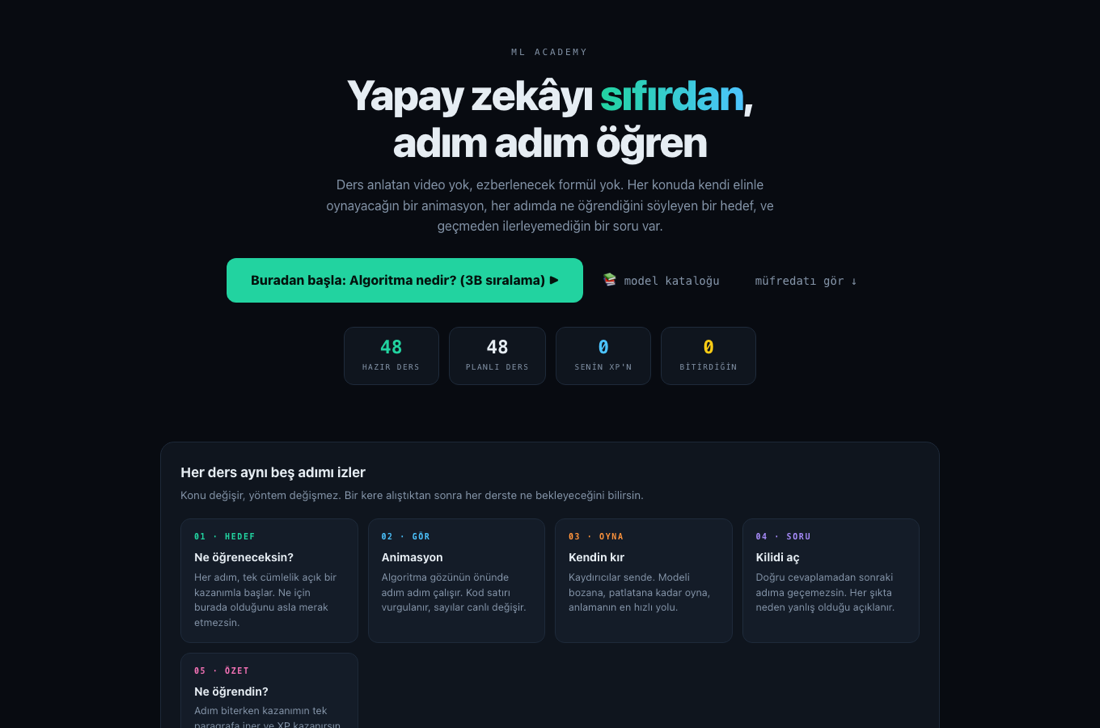
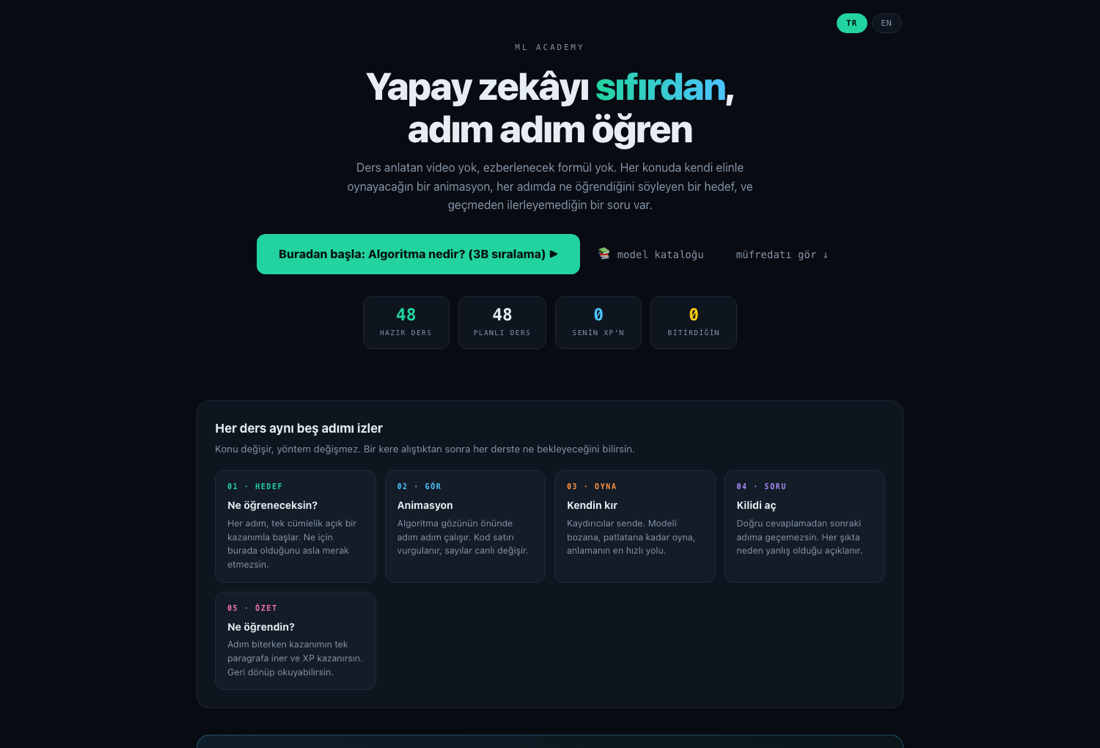
English interface on lesson pages, English screenshots in the English README
The English README showed Turkish screenshots, which made the English page
look like a translation that was never done. Now each README shows the
language it is written in.

Lesson pages got the same TR/EN switch as the home page. Navigation, step
counters, XP labels, player buttons, the code lab, quiz headings, gate
messages, the takeaway box and the sources list all follow the selected
language. The choice is shared with the home page through localStorage.

In English mode each step carries a one line notice that the interface is
English while the lesson text is still Turkish, so the mixed page is never a
surprise.

Also fixed a real layout bug found while taking the screenshots: the CSS rule
for the task label matched every <b> inside the task text, so bold words were
rendered as uppercase mono labels on their own line. 27 steps were affected.

diff --git a/lesson.html b/lesson.html
@@ -68,8 +68,9 @@
   .goal p{margin:0;font-size:15px;font-weight:600}
   .do{background:var(--panel2);border-left:3px solid var(--blue);border-radius:0 10px 10px 0;
       padding:11px 15px;margin:14px 0;font-size:13.5px}
-  .do b{color:var(--blue);font-family:var(--mono);font-size:9.5px;letter-spacing:.16em;
+  .do b.lbl{color:var(--blue);font-family:var(--mono);font-size:9.5px;letter-spacing:.16em;
         text-transform:uppercase;display:block;margin-bottom:3px}
+  .do b{color:var(--txt)}
 
   canvas{width:100%;display:block;border-radius:12px;background:#070a0f;margin-top:6px}
   .body{font-size:14px;margin-top:14px}
@@ -190,6 +191,12 @@
   .toast.go{animation:pop 1.7s ease-out}
   @keyframes pop{0%{opacity:0;transform:translateY(16px)}15%{opacity:1;transform:none}
                  75%{opacity:1;transform:none}100%{opacity:0;transform:translateY(-16px)}}
+  .dilbar{display:flex;gap:5px;flex:none}
+  .dilbar button{font-family:var(--mono);font-size:10px;letter-spacing:.1em;padding:5px 10px;
+    border-radius:99px;border:1px solid var(--line);background:var(--panel);color:var(--mut);cursor:pointer}
+  .dilbar button.on{background:var(--green);border-color:var(--green);color:#04120d;font-weight:800}
+  .dilnot{font-family:var(--mono);font-size:11px;color:var(--yellow);background:rgba(250,204,21,.07);
+    border:1px solid rgba(250,204,21,.28);border-radius:9px;padding:8px 12px;margin:0 0 16px}
   .fin{text-align:center;padding:34px 20px}
   .fin .big{font-size:44px;font-family:var(--mono);font-weight:800;color:var(--green)}
 </style>
@@ -197,14 +204,15 @@
 <body>
 
 <div class="top"><div class="in">
-  <a class="bk" href="index.html">← Tüm dersler</a>
+  <a class="bk" href="index.html" id="bkLink">← Tüm dersler</a>
   <div class="pbar"><div class="pfill" id="pfill"></div></div>
+  <div class="dilbar" id="dilbar"><button data-dil="tr">TR</button><button data-dil="en">EN</button></div>
   <div class="xp" id="xpN">0 XP</div>
 </div></div>
 
 <div class="shell">
   <aside class="side">
-    <div class="hd">◆ Bu dersin adımları</div>
+    <div class="hd" id="adimBasligi">◆ Bu dersin adımları</div>
     <div class="map" id="map"></div>
     <div id="kaynakBlok"></div>
   </aside>
@@ -220,14 +228,71 @@
 <script src="content.js"></script>
 <script>
 const $ = id => document.getElementById(id);
+
+/* ═══════ dil ═══════ */
+const DIL = localStorage.getItem('mlacad_dil') || 'tr';
+const EN = DIL === 'en';
+const L10N = {
+  tumDers:['← Tüm dersler','← All lessons'],
+  adimlar:['◆ Bu dersin adımları','◆ Steps in this lesson'],
+  yokBas:['Bu ders henüz hazır değil','This lesson is not ready yet'],
+  yokGov:['Müfredatta görünüyor ama içeriği yazılmadı.','It appears in the curriculum but the content has not been written yet.'],
+  listeDon:['← Ders listesine dön','← Back to the lesson list'],
+  adim:['Adım','Step'],
+  kazanilabilir:['XP kazanılabilir','XP available'],
+  okumaAdimi:['okuma adımı · 5 XP','reading step · 5 XP'],
+  ogrenecegin:['🎯 Bu adımda öğreneceğin','🎯 What you will learn here'],
+  yapacagin:['Yapacağın','Your task'],
+  geri:['◀ GERİ','◀ BACK'],
+  oynat:['▶ OYNAT','▶ PLAY'],
+  ileri:['İLERİ ▶','NEXT ▶'],
+  durdur:['⏸ DURDUR','⏸ PAUSE'],
+  tekrar:['↻ TEKRAR','↻ REPLAY'],
+  kare:['kare ','frame '],
+  asama:['aşama ','stage '],
+  kodlabBas:['⚙ Anladığını kanıtla · kodu tamamla','⚙ Prove you understood: complete the code'],
+  icinSec:['için seç:','pick a value:'],
+  onceKutu:['önce bir kutu seç','select a blank first'],
+  calistir:['▶ ÇALIŞTIR','▶ RUN'],
+  temizle:['↺ temizle','↺ clear'],
+  kutuKaldi:['kutu kaldı','blanks left'],
+  hazirCalistir:['hazır, çalıştır','ready, run it'],
+  calisiyor:['algoritma çalışıyor…','algorithm running…'],
+  kodOk:['✓ Çalıştı, kanıtladın','✓ It ran, you proved it'],
+  kodNo:['✗ Çalışmadı, sebebini oku','✗ It failed, read why'],
+  tekrarDene:['temizle, tekrar dene','clear and try again'],
+  quizBas:['✓ Kilidi açan soru','✓ The question that unlocks the next step'],
+  devam:['Devam →','Continue →'],
+  cevapVer:['Cevabımı ver →','Submit my answer →'],
+  gorevTamam:['Görevi tamamla','Complete the task'],
+  sonuBekle:['Animasyonun sonunu bekle','Wait for the animation to finish'],
+  asamaTamam:['Aşamaları tamamla','Go through every stage'],
+  koduTamam:['Kodu doğru tamamla ve çalıştır','Complete the code correctly and run it'],
+  sikSec:['Bir şık seç','Pick an option'],
+  ogrendigin:['✦ Bu adımda öğrendiğin','✦ What you learned here'],
+  sonraki:['Sonraki adım:','Next step:'],
+  dersBitti:['Ders tamamlandı','Lesson complete'],
+  dogruCevap:['doğru cevap','correct answer'],
+  denedin:['denedin','you tried'],
+  adimOkundu:['adım okundu','step read'],
+  kaynaklar:['◆ Kaynaklar','◆ Sources'],
+  baglanti:['bağlantı','link'],
+  karsilastirma:['<b>Karşılaştırma:</b> sen 1. adımda kaydırıcılarla en iyi <b>',
+                 '<b>Comparison:</b> with the sliders in step 1 your best was <b>'],
+  karsilastirma2:["</b>'e inmiştin. Model 2142 adımda <b>", '</b>. The model reached <b>'],
+  karsilastirma3:["</b>'ye indi.", '</b> in 2142 steps.'],
+  dilNot:['','Interface language is English. The lesson text itself is still Turkish.'],
+};
+const T = k => L10N[k][EN ? 1 : 0];
+
 const qs = new URLSearchParams(location.search);
 const DERS_ID = qs.get('id') || 'veri';
 const D = DERSLER[DERS_ID];
 
 if (!D){
   document.querySelector('main').innerHTML =
-    '<div class="stage"><h2>Bu ders henüz hazır değil</h2><p class="body">' +
-    'Müfredatta görünüyor ama içeriği yazılmadı. <a href="index.html">← Ders listesine dön</a></p></div>';
+    '<div class="stage"><h2>'+T('yokBas')+'</h2><p class="body">' +
+    T('yokGov')+' <a href="index.html">'+T('listeDon')+'</a></p></div>';
   throw new Error('ders yok');
 }
 
@@ -274,11 +339,12 @@ function go(i){
   (a.controls||[]).forEach(c => st[c.k] = c.val);
 
   let html = '<div class="stage">' +
-    '<div class="stag">Adım '+(i+1)+' / '+D.adimlar.length+'  ·  ' +
-      ((a.quiz||a.kodlab||a.unlock||a.bolgeSayisi) ? a.xp+' XP kazanılabilir' : 'okuma adımı · 5 XP') + '</div>' +
+    '<div class="stag">'+T('adim')+' '+(i+1)+' / '+D.adimlar.length+'  ·  ' +
+      ((a.quiz||a.kodlab||a.unlock||a.bolgeSayisi) ? a.xp+' '+T('kazanilabilir') : T('okumaAdimi')) + '</div>' +
     '<h2>'+a.t+'</h2>' +
-    '<div class="goal"><span class="h">🎯 Bu adımda öğreneceğin</span><p>'+a.goal+'</p></div>' +
-    '<div class="do"><b>Yapacağın</b>'+a.todo+'</div>' +
+    (EN ? '<div class="dilnot">'+T('dilNot')+'</div>' : '') +
+    '<div class="goal"><span class="h">'+T('ogrenecegin')+'</span><p>'+a.goal+'</p></div>' +
+    '<div class="do"><b class="lbl">'+T('yapacagin')+'</b>'+a.todo+'</div>' +
     '<canvas id="cv"></canvas>' +
     '<div id="live"></div>';
 
@@ -292,8 +358,8 @@ function go(i){
   if (a.kind === 'phases' || a.kind === 'play'){
     html += '<div class="player">' +
       (a.kind === 'play' ? '<button id="pFirst">⏮</button>' : '') +
-      '<button id="pPrev">◀ GERİ</button>' +
-      '<button class="pl" id="pMain">'+(a.kind==='play'?'▶ OYNAT':'İLERİ ▶')+'</button>' +
+      '<button id="pPrev">'+T('geri')+'</button>' +
+      '<button class="pl" id="pMain">'+(a.kind==='play'?T('oynat'):T('ileri'))+'</button>' +
       (a.kind === 'play' ? '<button id="pNext">▶</button><button id="pLast">⏭</button>' : '') +
       '</div>' +
       (a.kind === 'play' ? '<input type="range" class="scrub" id="scrub" min="0" max="0" value="0">' : '') +
@@ -305,24 +371,24 @@ function go(i){
   /* ── kod tamamlama laboratuvarı ── */
   if (a.kodlab){
     const L = a.kodlab;
-    html += '<div class="kodlab"><span class="h">⚙ Anladığını kanıtla · kodu tamamla</span>' +
+    html += '<div class="kodlab"><span class="h">'+T('kodlabBas')+'</span>' +
       '<div class="q">'+L.q+'</div><div class="kodbox">' +
       L.satirlar.map((ln,k) => '<div class="cl"><span class="ln">'+(k+1)+'</span>' +
         ln.replace(/<(b\d+)>/g, (m,id) =>
           '<span class="blank" data-b="'+id+'" id="bl_'+id+'">?</span>')+'</div>').join('') +
       '</div><div class="bank" id="bank"></div>' +
       (L.ipucu ? '<div class="ipucu">💡 '+L.ipucu+'</div>' : '') +
-      '<div class="runbar"><button class="btn-run" id="btnRun" disabled>▶ ÇALIŞTIR</button>' +
-      '<button class="tok" id="btnReset">↺ temizle</button>' +
+      '<div class="runbar"><button class="btn-run" id="btnRun" disabled>'+T('calistir')+'</button>' +
+      '<button class="tok" id="btnReset">'+T('temizle')+'</button>' +
       '<span class="hint" id="kodHint"></span></div><div id="kodSonuc"></div></div>';
   }
 
-  if (a.quiz) html += '<div class="quiz"><span class="h">✓ Kilidi açan soru</span><div class="q">'+a.quiz.q+'</div>' +
+  if (a.quiz) html += '<div class="quiz"><span class="h">'+T('quizBas')+'</span><div class="q">'+a.quiz.q+'</div>' +
     '<div class="choices" id="qch">' + a.quiz.opts.map((o,k) =>
       '<div class="ch" data-k="'+k+'"><div class="k">'+'ABCD'[k]+'</div><div class="txt">'+o.t+'</div></div>').join('') +
     '</div></div>';
   html += '<div id="learned"></div>' +
-    '<div class="nav"><button class="btn" id="primary">Devam →</button><span class="hint" id="hint"></span></div>' +
+    '<div class="nav"><button class="btn" id="primary">'+T('devam')+'</button><span class="hint" id="hint"></span></div>' +
     '</div>';
 
   $('host').innerHTML = html;
@@ -381,18 +447,18 @@ function go(i){
   function stop(elle){
     playing = false; clearInterval(PLAY_TIMER); PLAY_TIMER = null;
     if (elle) dongu = false;
-    if ($('pMain')) $('pMain').textContent = ph >= nPh-1 ? '↻ TEKRAR' : '▶ OYNAT';
+    if ($('pMain')) $('pMain').textContent = ph >= nPh-1 ? T('tekrar') : T('oynat');
   }
   function baslat(){
     if (playing || S.i !== i) return;
     if (ph >= nPh-1) ph = 0;
-    playing = true; if ($('pMain')) $('pMain').textContent = '⏸ DURDUR';
+    playing = true; if ($('pMain')) $('pMain').textContent = T('durdur');
     clearInterval(PLAY_TIMER);
     PLAY_TIMER = setInterval(() => {
       if (S.i !== i){ clearInterval(PLAY_TIMER); return; }
       if (ph >= nPh-1){
         clearInterval(PLAY_TIMER); playing = false;
-        if ($('pMain')) $('pMain').textContent = '↻ TEKRAR';
+        if ($('pMain')) $('pMain').textContent = T('tekrar');
         syncPrimary();
         if (dongu) setTimeout(() => { if (dongu && S.i === i){ ph = 0; baslat(); } }, 1500);
         return;
@@ -414,7 +480,7 @@ function go(i){
   }
   function upPh(){
     if (ph >= nPh-1) sonaGeldi = true;      // döngü başa sarsa bile unutma
-    if ($('cnt')) $('cnt').textContent = (a.kind==='play'?'kare ':'aşama ') + (ph+1) + ' / ' + nPh;
+    if ($('cnt')) $('cnt').textContent = (a.kind==='play'?T('kare'):T('asama')) + (ph+1) + ' / ' + nPh;
     if ($('pPrev')) $('pPrev').disabled = ph === 0;
     if (a.kind === 'phases' && $('pMain')) $('pMain').disabled = ph === nPh-1;
     if ($('scrub')) $('scrub').value = ph;
@@ -441,7 +507,7 @@ function go(i){
     };
     function bankCiz(){
       const b = L.bosluklar[aktifBlank];
-      $('bank').innerHTML = '<span class="lbl">' + (aktifBlank ? aktifBlank.toUpperCase()+' için seç:' : 'önce bir kutu seç') + '</span>' +
+      $('bank').innerHTML = '<span class="lbl">' + (aktifBlank ? aktifBlank.toUpperCase()+' '+T('icinSec') : T('onceKutu')) + '</span>' +
         (b ? b.secenekler.map(o => '<button class="tok" data-o="'+o+'">'+o+'</button>').join('') : '');
       $('bank').querySelectorAll('.tok').forEach(el => el.onclick = () => {
         kodVals[aktifBlank] = el.dataset.o;
@@ -450,7 +516,7 @@ function go(i){
         const bos = ids.find(x => !kodVals[x]);
         if (bos) secBlank(bos); else { aktifBlank = null; bankCiz(); }
         $('btnRun').disabled = ids.some(x => !kodVals[x]);
-        $('kodHint').textContent = $('btnRun').disabled ? (ids.length - Object.keys(kodVals).length)+' kutu kaldı' : 'hazır, çalıştır';
+        $('kodHint').textContent = $('btnRun').disabled ? (ids.length - Object.keys(kodVals).length)+' '+T('kutuKaldi') : T('hazirCalistir');
       });
     }
     ids.forEach(id => $('bl_'+id).onclick = () => { if (!kodOK) secBlank(id); });
@@ -463,7 +529,7 @@ function go(i){
     $('btnRun').onclick = () => {
       const r = L.calistir(kodVals);
       $('btnRun').disabled = true; $('btnReset').disabled = true;
-      $('kodHint').innerHTML = '<span class="spin"></span>algoritma çalışıyor…';
+      $('kodHint').innerHTML = '<span class="spin"></span>'+T('calisiyor');
       runSeq = r.kareler; runIdx = 0; draw();
       clearInterval(RUN_TIMER);
       RUN_TIMER = setInterval(() => {
@@ -473,10 +539,10 @@ function go(i){
           $('btnReset').disabled = false;
           ids.forEach(x => $('bl_'+x).classList.add(kodVals[x] === L.bosluklar[x].dogru ? 'dogru' : 'yanlis'));
           $('kodSonuc').innerHTML = '<div class="sonuc '+(r.dogru?'ok':'no')+'">' +
-            '<b class="h">'+(r.dogru?'✓ Çalıştı, kanıtladın':'✗ Çalışmadı, sebebini oku')+'</b>'+r.mesaj+'</div>';
+            '<b class="h">'+(r.dogru?T('kodOk'):T('kodNo'))+'</b>'+r.mesaj+'</div>';
           if (r.dogru){ kodOK = true; syncPrimary(); }
           else { $('btnRun').disabled = false;
-                 $('kodHint').textContent = 'temizle, tekrar dene'; }
+                 $('kodHint').textContent = T('tekrarDene'); }
           return;
         }
         runIdx++; draw();
@@ -487,12 +553,12 @@ function go(i){
   /* ---- ilerleme koşulu ---- */
   function gate(){
     const s = vizState();
-    if (a.unlock && !a.unlock(s)) return a.unlockMsg || 'Görevi tamamla';
+    if (a.unlock && !a.unlock(s)) return a.unlockMsg || T('gorevTamam');
     if (a.bolgeSayisi && Object.keys(S.bolgeler).length < a.bolgeSayisi) return a.unlockMsg;
     if ((a.kind === 'phases' || a.kind === 'play') && !sonaGeldi)
-      return a.kind==='play' ? 'Animasyonun sonunu bekle' : 'Aşamaları tamamla';
-    if (a.kodlab && !kodOK) return 'Kodu doğru tamamla ve çalıştır';
-    if (a.quiz && !answered && sel === null) return 'Bir şık seç';
+      return a.kind==='play' ? T('sonuBekle') : T('asamaTamam');
+    if (a.kodlab && !kodOK) return T('koduTamam');
+    if (a.quiz && !answered && sel === null) return T('sikSec');
     return null;
   }
   function syncPrimary(){
@@ -500,7 +566,7 @@ function go(i){
     const g = gate();
     $('primary').disabled = !!g;
     $('hint').textContent = g || '';
-    $('primary').textContent = a.quiz ? 'Cevabımı ver →' : 'Devam →';
+    $('primary').textContent = a.quiz ? T('cevapVer') : T('devam');
   }
 
   let done = false;
@@ -509,27 +575,27 @@ function go(i){
     let lr = a.learned || '';
     if (a.compareTracked && S.tracked.length){
       const best = Math.min(...S.tracked.map(t => t.mse));
-      lr += '<br><br><b>Karşılaştırma:</b> sen 1. adımda kaydırıcılarla en iyi <b>' + best.toFixed(1) +
-            '</b>\'e inmiştin. Model 2142 adımda <b>' + DATA.study.mseStar.toFixed(2) + '</b>\'ye indi.';
+      lr += '<br><br>' + T('karsilastirma') + best.toFixed(1) +
+            T('karsilastirma2') + DATA.study.mseStar.toFixed(2) + T('karsilastirma3');
     }
-    if (lr) $('learned').innerHTML = '<div class="learned"><span class="h">✦ Bu adımda öğrendiğin</span>'+lr+'</div>';
+    if (lr) $('learned').innerHTML = '<div class="learned"><span class="h">'+T('ogrendigin')+'</span>'+lr+'</div>';
     const meydan = !!(a.quiz || a.kodlab || a.unlock || a.bolgeSayisi);
     if (!MY.done.includes(i)){
       MY.done.push(i);
-      if (meydan) award(ok ? a.xp : Math.round(a.xp*0.3), ok ? 'doğru cevap' : 'denedin');
-      else award(5, 'adım okundu');
+      if (meydan) award(ok ? a.xp : Math.round(a.xp*0.3), ok ? T('dogruCevap') : T('denedin'));
+      else award(5, T('adimOkundu'));
     }
     saveP(PROG); renderMap();
     const nx = i+1;
     $('primary').disabled = false;
     if (nx < D.adimlar.length){
-      $('primary').textContent = 'Sonraki adım: ' + D.adimlar[nx].t.slice(0,30) + ' →';
+      $('primary').textContent = T('sonraki')+' ' + D.adimlar[nx].t.slice(0,30) + ' →';
       $('primary').onclick = () => go(nx);
       $('hint').textContent = '';
     } else {
-      $('primary').textContent = '← Ders listesine dön';
+      $('primary').textContent = T('listeDon');
       $('primary').onclick = () => location.href = 'index.html';
-      $('hint').innerHTML = '<b style="color:var(--green)">Ders tamamlandı · '+MY.xp+' XP</b>';
+      $('hint').innerHTML = '<b style="color:var(--green)">'+T('dersBitti')+' · '+MY.xp+' XP</b>';
     }
   }
 
@@ -554,12 +620,19 @@ function go(i){
 }
 
 if (D.kaynaklar && D.kaynaklar.length){
-  $('kaynakBlok').innerHTML = '<div class="kh">◆ Kaynaklar</div>' + D.kaynaklar.map(k =>
+  $('kaynakBlok').innerHTML = '<div class="kh">'+T('kaynaklar')+'</div>' + D.kaynaklar.map(k =>
     '<div class="kaynak"><span class="yz">' + k.y + ' (' + k.t + ')</span>' +
     '<span class="bs">' + k.b + '</span>' +
-    '<span class="yer">' + k.n + (k.u ? ' · <a href="'+k.u+'" target="_blank">bağlantı</a>' : '') + '</span></div>'
+    '<span class="yer">' + k.n + (k.u ? ' · <a href="'+k.u+'" target="_blank">'+T('baglanti')+'</a>' : '') + '</span></div>'
   ).join('');
 }
+$('bkLink').textContent = T('tumDers');
+$('adimBasligi').textContent = T('adimlar');
+document.documentElement.lang = DIL;
+$('dilbar').querySelectorAll('button').forEach(b => {
+  b.classList.toggle('on', b.dataset.dil === DIL);
+  b.onclick = () => { localStorage.setItem('mlacad_dil', b.dataset.dil); location.reload(); };
+});
 $('dAd').textContent = D.ad;
 $('dAlt').textContent = D.alt;
 renderMap();

diff --git a/index.html b/index.html
@@ -113,7 +113,7 @@
        ve geçmeden ilerleyemediğin bir soru var.</p>
     <div>
       <a class="cta" id="startBtn" href="lesson.html?id=veri">Buradan başla ▶</a>
-      <div class="dilnot" id="dilnot">Lesson content is currently in Turkish. The interface is available in English; a full translation is on the roadmap.</div>
+      <div class="dilnot" id="dilnot">This page reads in English, but the lessons themselves and the model catalogue are still in Turkish. A full translation is on the roadmap.</div>
       <a class="cta2" href="modeller.html" data-i="ctaKat">📚 model kataloğu</a>
       <a class="cta2" href="#rota0" data-i="ctaMuf">müfredatı gör ↓</a>
     </div>

diff --git a/_en.html b/_en.html
@@ -1,0 +1,1 @@
+<script>localStorage.setItem('mlacad_dil','en');location.replace('/lesson.html?id=nasil-ogrenir');</script>

diff --git a/README.md b/README.md
@@ -8,14 +8,15 @@ No videos, no installation, no accounts. Open `index.html` and start.
 
 **[Live demo](https://cagritemel.com/ml-academy/)**
 
-> **Note on language.** The course content is currently in Turkish. The home page has a TR/EN toggle,
-> so the curriculum map, track names and navigation read in English. Lesson pages and the model catalogue
-> are still Turkish. A full translation is on the roadmap. Everything else in this repository (code,
-> structure, verification suite) is language independent.
+> **Note on language.** The interface has a TR/EN switch on both the home page and the lesson pages, so
+> navigation, buttons, section headings and progress labels read in English. The lesson text itself is
+> still Turkish, which is why the screenshot below shows English chrome around Turkish prose. A full
+> translation of the lesson content and the model catalogue is on the roadmap. Everything else in this
+> repository (code, structure, verification suite) is language independent.
 
-![ML Academy home page](docs/img/anasayfa.png)
+![ML Academy home page in English](docs/img/home-en.png)
 
-![Lesson: how does a model learn](docs/img/ders.png)
+![A lesson with the interface in English](docs/img/lesson-en.png)
 
 ## Why I built this
 

diff --git a/README.tr.md b/README.tr.md
@@ -8,6 +8,10 @@ Video yok, kurulum yok, üyelik yok. `index.html` dosyasını açıp başlıyors
 
 **[Canlı demo](https://cagritemel.com/ml-academy/)**
 
+> **Dil hakkında.** Ders içerikleri Türkçe. Ana sayfada ve ders sayfalarında bir TR/EN düğmesi var;
+> İngilizceye alınca menüler, düğmeler, başlıklar ve ilerleme etiketleri İngilizce oluyor, ders metni
+> Türkçe kalıyor. Ders içeriğinin ve model kataloğunun tam çevirisi yol haritasında.
+
 ![ML Academy ana sayfa](docs/img/anasayfa.png)
 
 ![Bir model nasıl öğrenir dersi](docs/img/ders.png)
